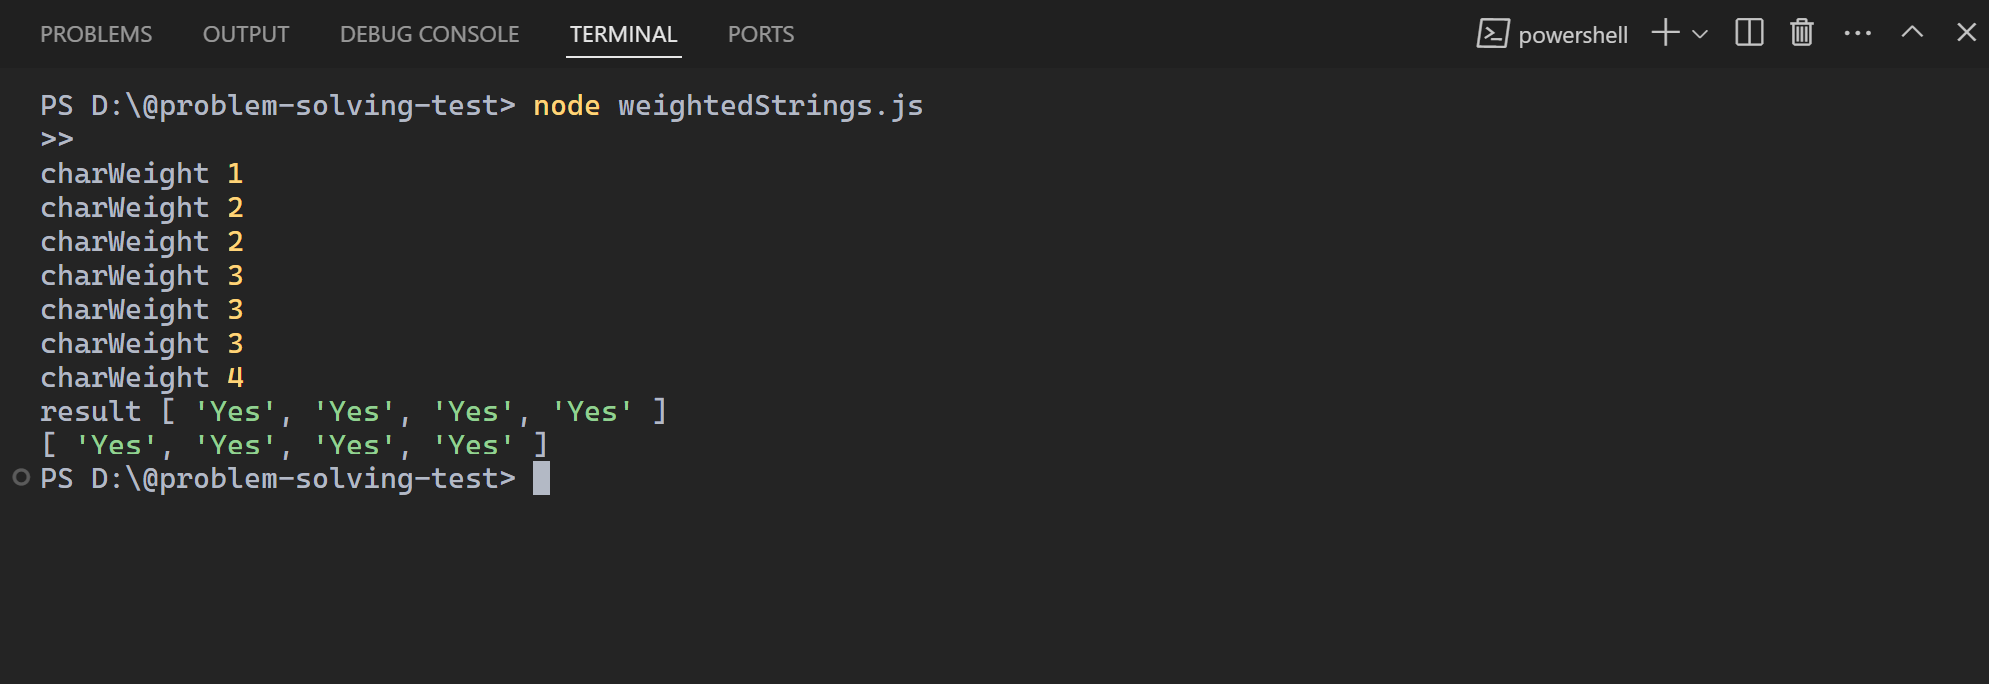
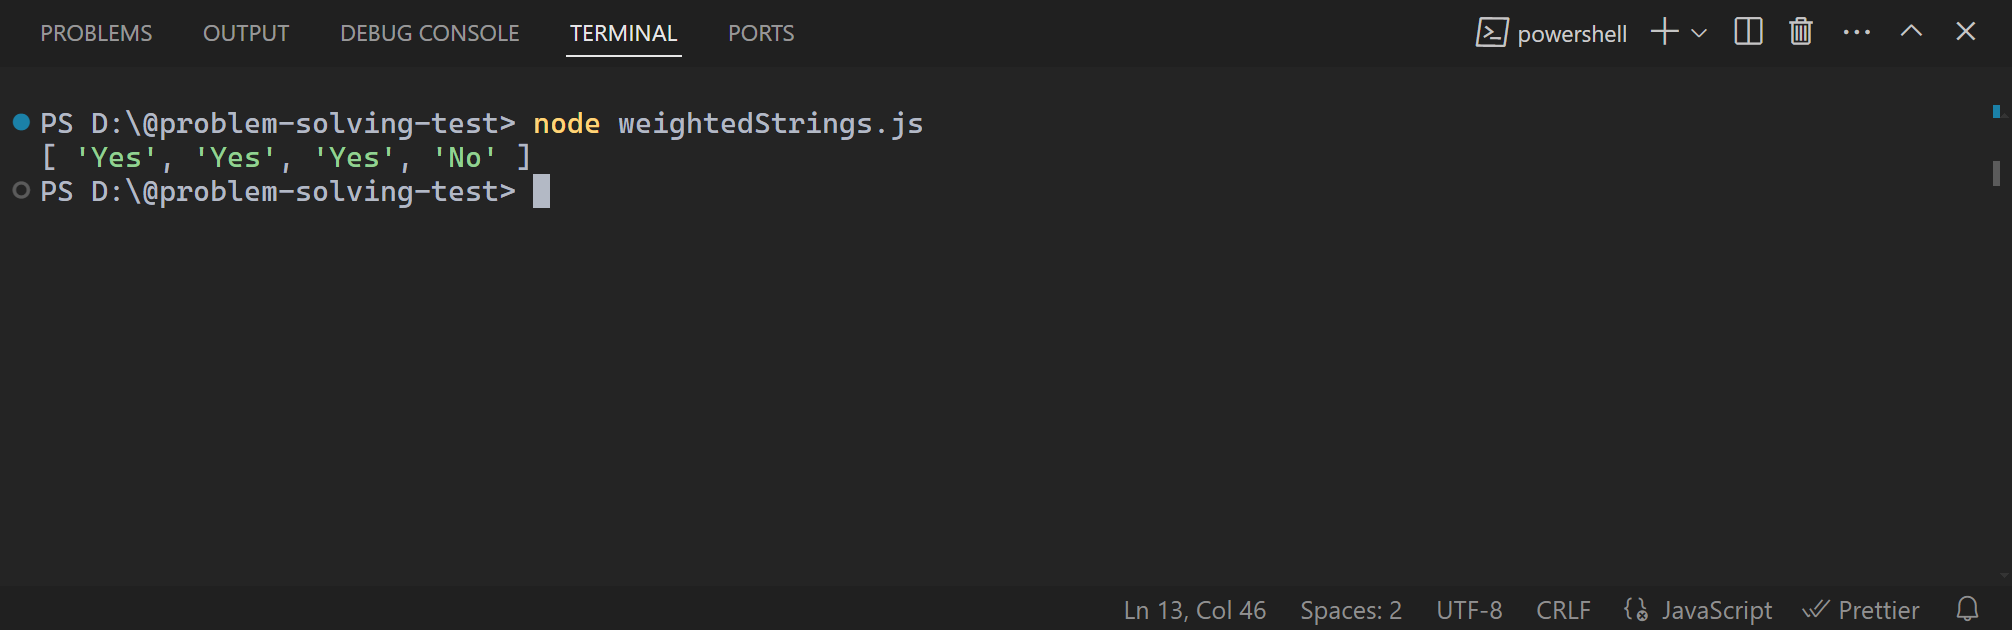
modification output

diff --git a/weightedStrings.js b/weightedStrings.js
@@ -10,7 +10,7 @@ function weightedStrings(s, queries) {
   // Loop melalui string
   for (const char of s) {
     const charWeight = char.charCodeAt(0) - 'a'.charCodeAt(0) + 1;
-    console.log('charWeight', charWeight);
+    // console.log('charWeight', charWeight);
       
       if (char === prevChar) {
           // Jika karakter sama dengan karakter sebelumnya, tingkatkan jumlah pengulangan
@@ -32,12 +32,12 @@ function weightedStrings(s, queries) {
       
       // Membuat hasil berdasarkan queries
       const result = queries.map(query => weights.has(query) ? "Yes" : "No");
-      console.log('result', result)
+      // console.log('result', result)
   
   return result;
 }
 
 // Contoh penggunaan
 const string = "abbcccd";
-const queries = [1, 3, 9, 4];
+const queries = [1, 3, 9, 8];
 console.log(weightedStrings(string, queries)); // Output: ["Yes", "Yes", "Yes", "No"]

diff --git a/isBalancedBracket.js b/isBalancedBracket.js
@@ -30,6 +30,10 @@ function isBalancedBracket(s) {
 }
 
 // Contoh penggunaan
-console.log(isBalancedBracket("{ [ ( ) ] }")); // Output: YES
-console.log(isBalancedBracket("{ [ ( ] ) }")); // Output: NO
-console.log(isBalancedBracket("{ ( ( [ ] ) [ ] ) [ ] }")); // Output: YES
+const example1 = "{ [ ( ) ] }";
+const example2 = "{ [ ( ] ) }";
+const example3 = "{ ( ( [ ] ) [ ] ) [ ] }";
+
+console.log(`"${example1}" 👉 `, isBalancedBracket(example1)); // Output: YES
+console.log(`"${example2}" 👉 `, isBalancedBracket(example2)); // Output: NO
+console.log(`"${example3}" 👉 `, isBalancedBracket(example3)); // Output: YES

diff --git a/highestPalindrome.js b/highestPalindrome.js
@@ -62,6 +62,5 @@ function highestPalindrome(s, k) {
 
 // Contoh penggunaan
 console.log(highestPalindrome('3943', 1)); // Output: 3993
-console.log(highestPalindrome('092282', 3)); // Output: 992299
+console.log(highestPalindrome('932239', 2)); // Output: 992299
 console.log(highestPalindrome('0011', 1)); // Output: -1
-console.log(highestPalindrome('43261', 2)); // Output: 96269
